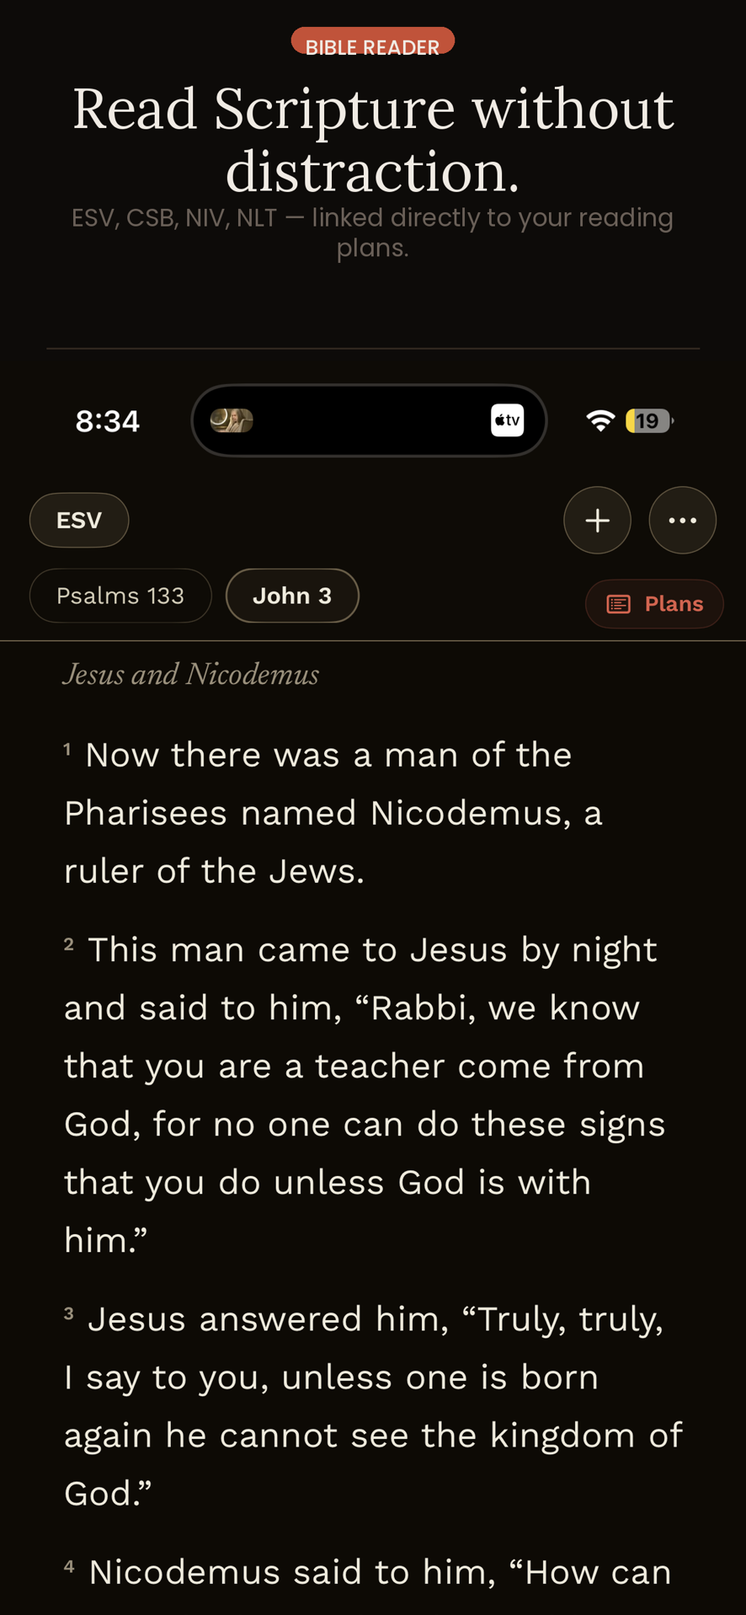
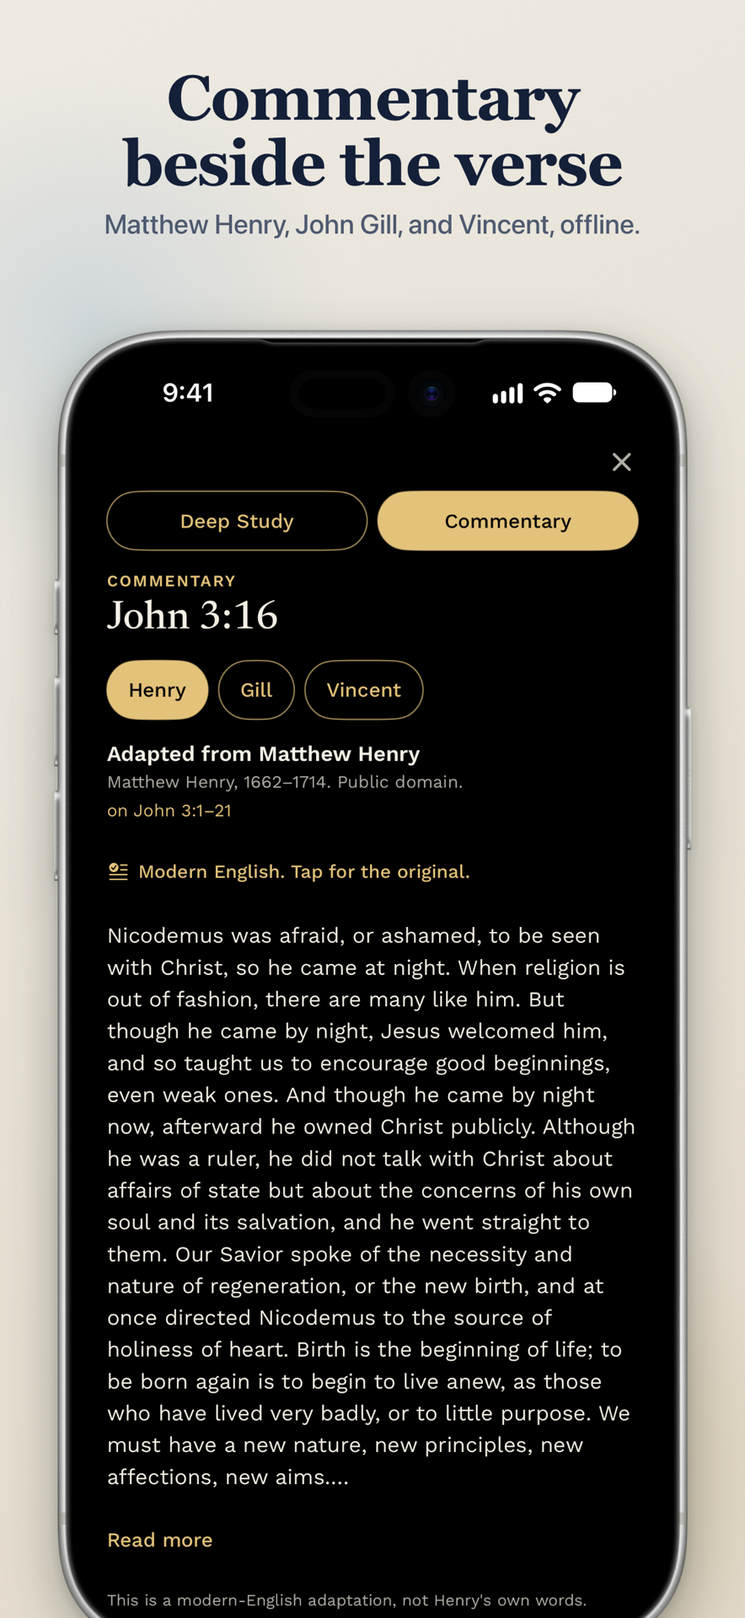
Pilgrim is Bible-only; prayer lists point to Pilgrim: Prayer List
- Pilgrim page/home/links/support: Bible-only copy, current App Store
  screenshots (no prayer screens), link to Prayer List
- Prayer journal articles now promote and link Pilgrim: Prayer List
- Prayer List copy matches its listing (no sharing claim)
- Shepherd screenshot: "calm" greeting replaced

diff --git a/apps/pilgrim.html b/apps/pilgrim.html
@@ -4,9 +4,9 @@
 <meta charset="UTF-8">
 <meta name="viewport" content="width=device-width, initial-scale=1.0">
 <title>Pilgrim — Everlight Digital</title>
-<meta name="description" content="Pilgrim — Bible & prayer, without the guilt mechanics. Made by Everlight Digital.">
+<meta name="description" content="Pilgrim Bible — a free Bible for daily reading, without the guilt mechanics. 15 translations, commentary, and reading plans. Made by Everlight Digital.">
 <meta property="og:title" content="Pilgrim — Everlight Digital">
-<meta property="og:description" content="Bible & prayer, without the guilt mechanics">
+<meta property="og:description" content="A free Bible for daily reading, without the guilt mechanics">
 <meta property="og:type" content="website">
 <link rel="icon" type="image/svg+xml" href="/favicon.svg">
 <meta name="theme-color" content="#0E0B14">
@@ -22,9 +22,9 @@
 <meta property="og:image:alt" content="Everlight Digital — Digital tools for what matters most.">
 <meta name="twitter:card" content="summary_large_image">
 <meta name="twitter:title" content="Pilgrim">
-<meta name="twitter:description" content="Pilgrim — Bible &amp; prayer, without the guilt mechanics. Made by Everlight Digital.">
+<meta name="twitter:description" content="Pilgrim Bible — a free Bible for daily reading, without the guilt mechanics. 15 translations, commentary, and reading plans. Made by Everlight Digital.">
 <meta name="twitter:image" content="https://everlight-digital.com/assets/og/default.png">
-<script type="application/ld+json">{"@context":"https://schema.org","@graph":[{"@type":"SoftwareApplication","name":"Pilgrim","description":"Pilgrim — Bible & prayer, without the guilt mechanics. Made by Everlight Digital.","url":"https://apps.apple.com/us/app/pilgrim-bible-prayer/id6769929244","operatingSystem":"iOS","applicationCategory":"LifestyleApplication","publisher":{"@id":"https://everlight-digital.com/#org"}}]}</script>
+<script type="application/ld+json">{"@context":"https://schema.org","@graph":[{"@type":"SoftwareApplication","name":"Pilgrim","description":"Pilgrim Bible — a free Bible for daily reading, without the guilt mechanics. 15 translations, commentary, and reading plans. Made by Everlight Digital.","url":"https://apps.apple.com/us/app/pilgrim-bible-prayer/id6769929244","operatingSystem":"iOS","applicationCategory":"LifestyleApplication","publisher":{"@id":"https://everlight-digital.com/#org"}}]}</script>
 <script src="/brand/analytics.js" defer></script>
 <!-- seo:end -->
 <link rel="stylesheet" href="/brand/site.css">
@@ -36,10 +36,10 @@
 </div></header>
 
 <section class="story-hero"><div class="wrap">
-  <img class="icon" src="/assets/apps/pilgrim/icon.png" alt="Pilgrim Christian Daily Prayer App Icon">
+  <img class="icon" src="/assets/apps/pilgrim/icon.png" alt="Pilgrim Bible app icon">
   <div>
-    <h1>Pilgrim</h1>
-    <div class="tag">Bible & prayer, without the guilt mechanics</div>
+    <h1>Pilgrim Bible</h1>
+    <div class="tag">A free Bible for daily reading, without the guilt mechanics</div>
     <div class="platform">iOS</div>
     <a class="btn btn--onlight" href="https://apps.apple.com/us/app/pilgrim-bible-prayer/id6769929244">Get it on the App Store</a>
   </div>
@@ -47,7 +47,7 @@
 
 <section class="section"><div class="wrap" style="max-width:760px">
   <p class="eyebrow">The problem</p>
-  <p style="font-size:19px;color:var(--el-stone)">Most Bible apps turn reading into a streak to protect — miss a day and the app makes you feel it. Pilgrim starts from a different premise: reading Scripture and praying are things you come back to because they matter, not because a counter is watching. It's a quiet place to read a passage, mark it up, and pray, with nothing tracking how "consistent" you've been.</p>
+  <p style="font-size:19px;color:var(--el-stone)">Most Bible apps turn reading into a streak to protect — miss a day and the app makes you feel it. Pilgrim starts from a different premise: reading Scripture is something you come back to because it matters, not because a counter is watching. It's a quiet place to read a passage and mark it up, with nothing tracking how "consistent" you've been.</p>
 </div></section>
 
 <section class="section section--tint"><div class="wrap">
@@ -55,28 +55,30 @@
   <div class="feature-list">
     <div class="item"><h3>Read without the scoreboard</h3><p>Full Bible text with clean typography and no streak counter, no red badge nagging you back in.</p></div>
     <div class="item"><h3>Mark verses that matter</h3><p>Highlight, note, and bookmark passages as you read, so the verses that hit stay easy to find later.</p></div>
-    <div class="item"><h3>A real prayer list</h3><p>Keep a running list of who and what you're praying for, and check in whenever you actually want to — not on a schedule the app sets.</p></div>
+    <div class="item"><h3>Commentary beside the verse</h3><p>Matthew Henry, John Gill, and Vincent's Word Studies on key books, right next to the text and fully offline.</p></div>
+    <div class="item"><h3>Plans for every season</h3><p>Bible in a Year, Psalms in 30 days, the Gospels, and more. Missed days stay open, and you can invite a friend to read a plan with you.</p></div>
   </div>
 </div></section>
 
 <section class="section"><div class="wrap">
   <p class="eyebrow">A look inside</p>
   <div class="shot-strip">
-    <img src="/assets/apps/pilgrim/shot-1.png" alt="Pilgrim home — your spiritual life in one place" loading="lazy">
-    <img src="/assets/apps/pilgrim/shot-2.png" alt="Pilgrim daily home screen" loading="lazy">
-    <img src="/assets/apps/pilgrim/shot-3.png" alt="Pilgrim Bible reader" loading="lazy">
-    <img src="/assets/apps/pilgrim/shot-4.png" alt="Pilgrim prayer lists" loading="lazy">
+    <img src="/assets/apps/pilgrim/shot-1.png" alt="Pilgrim Bible reader — 15 translations, no ads" loading="lazy">
+    <img src="/assets/apps/pilgrim/shot-2.png" alt="Scroll mode — read one verse at a time" loading="lazy">
+    <img src="/assets/apps/pilgrim/shot-3.png" alt="Commentary beside the verse" loading="lazy">
+    <img src="/assets/apps/pilgrim/shot-4.png" alt="Pilgrim reading plans library" loading="lazy">
   </div>
 </div></section>
 
 <section class="section"><div class="wrap" style="max-width:680px;text-align:center">
   <p class="eyebrow">Who it's for</p>
-  <p style="font-size:19px;color:var(--el-stone)">Anyone who wants a daily Bible and prayer habit that doesn't run on guilt — from someone starting out to a longtime reader tired of gamified faith apps.</p>
+  <p style="font-size:19px;color:var(--el-stone)">Anyone who wants a daily Bible habit that doesn't run on guilt — from someone starting out to a longtime reader tired of gamified faith apps.</p>
   <div class="made-by">
     <p style="margin:0 0 12px">Made by <a href="/">Everlight Digital</a> — intentional tools for what matters most.</p>
     <a class="btn btn--primary" href="https://apps.apple.com/us/app/pilgrim-bible-prayer/id6769929244">Get it on the App Store</a>
   </div>
   <p style="margin-top:24px"><a href="/journal/pilgrim-sticking-with-a-reading-plan">Read: how to actually stick with a Bible reading plan →</a></p>
+  <p><a href="/apps/prayerlist">Looking for a prayer list? See Pilgrim: Prayer List →</a></p>
   <p><a href="/pilgrim/privacy">Pilgrim privacy policy</a></p>
 </div></section>
 

diff --git a/index.html b/index.html
@@ -57,18 +57,18 @@
   </nav>
 </section>
 <section class="app-sec" id="pilgrim" aria-labelledby="pilgrim-h">
-  <figure class="phone"><div class="phone__screen"><img src="/assets/apps/pilgrim/shot-1.png" alt="Pilgrim home — your spiritual life in one place" style="object-position:center top"><img src="/assets/apps/pilgrim/shot-2.png" alt="Pilgrim daily home screen" hidden style="object-position:center top"><img src="/assets/apps/pilgrim/shot-3.png" alt="Pilgrim Bible reader" hidden style="object-position:center top"><img src="/assets/apps/pilgrim/shot-4.png" alt="Pilgrim prayer lists" hidden style="object-position:center top"></div><button class="play" type="button" aria-pressed="false" aria-label="Play a tour of Pilgrim screenshots"><svg viewBox="0 0 24 24" aria-hidden="true"><path class="i-play" d="M8 5v14l11-7z"/><path class="i-pause" d="M7 5h4v14H7zM13 5h4v14h-4z"/></svg></button></figure>
-  <p class="kicker">Pilgrim · Bible &amp; Prayer · iOS</p>
+  <figure class="phone"><div class="phone__screen"><img src="/assets/apps/pilgrim/shot-1.png" alt="Pilgrim Bible reader — 15 translations, no ads" style="object-position:center top"><img src="/assets/apps/pilgrim/shot-2.png" alt="Scroll mode — read one verse at a time" hidden style="object-position:center top"><img src="/assets/apps/pilgrim/shot-3.png" alt="Commentary beside the verse" hidden style="object-position:center top"><img src="/assets/apps/pilgrim/shot-4.png" alt="Pilgrim reading plans library" hidden style="object-position:center top"></div><button class="play" type="button" aria-pressed="false" aria-label="Play a tour of Pilgrim screenshots"><svg viewBox="0 0 24 24" aria-hidden="true"><path class="i-play" d="M8 5v14l11-7z"/><path class="i-pause" d="M7 5h4v14H7zM13 5h4v14h-4z"/></svg></button></figure>
+  <p class="kicker">Pilgrim Bible · iOS</p>
   <h2 id="pilgrim-h">Scripture,<br>without the scoreboard.</h2>
-  <p class="lede">Most Bible apps turn reading into a streak to protect. Pilgrim is <mark>a quiet place to read, mark it up, and pray</mark> — full Bible text with clean typography, highlights, notes, and a real prayer list, with nothing tracking how “consistent” you’ve been.</p>
-  <p class="actions"><a class="store" href="https://apps.apple.com/us/app/pilgrim-bible-prayer/id6769929244">Download Pilgrim on the App Store</a><a class="more" href="/apps/pilgrim">Learn more<span class="sr-only"> about Pilgrim</span> →</a></p>
+  <p class="lede">Most Bible apps turn reading into a streak to protect. Pilgrim is <mark>a quiet place to read and mark it up</mark> — 15 translations, commentary beside the verse, and reading plans, free with no ads, and nothing tracking how “consistent” you’ve been.</p>
+  <p class="actions"><a class="store" href="https://apps.apple.com/us/app/pilgrim-bible-prayer/id6769929244">Download Pilgrim Bible on the App Store</a><a class="more" href="/apps/pilgrim">Learn more<span class="sr-only"> about Pilgrim</span> →</a></p>
 </section>
 <section class="app-sec" id="prayerlist" aria-labelledby="prayerlist-h">
   <figure class="phone"><div class="phone__screen"><div class="type-screen type-screen--prayer" role="img" aria-label="Prayer List"><span class="ts-eyebrow">Prayer List</span><span class="ts-title">Pray.<br>Then mark it<br><em>answered.</em></span></div></div></figure>
   <p class="kicker">Pilgrim: Prayer List · iPhone &amp; iPad</p>
   <h2 id="prayerlist-h">Pray for people,<br>then mark it answered.</h2>
-  <p class="lede">Keep a list of people and situations to pray for, and <mark>mark them answered</mark>. Free includes 10 active prayers — answered ones don’t count. Plus unlocks a bigger list, named lists, people, widgets, and sharing with one person.</p>
-  <p class="actions"><a class="store" href="https://apps.apple.com/us/app/id6813986018">Download Prayer List on the App Store</a></p>
+  <p class="lede">Keep a list of people and situations to pray for, and <mark>mark them answered</mark>. Free includes 10 active prayers — answered ones don’t count. Plus unlocks a bigger list, named lists, People, prayer stats, and a Home Screen widget.</p>
+  <p class="actions"><a class="store" href="https://apps.apple.com/us/app/pilgrim-prayer-list/id6813986018">Download Prayer List on the App Store</a></p>
 </section>
 <section class="app-sec" id="chrona" aria-labelledby="chrona-h">
   <figure class="phone"><div class="phone__screen"><img src="/assets/apps/chrona/shot-1.png" alt="Chrona month view with events and tasks" style="object-position:center top" loading="lazy"><img src="/assets/apps/chrona/shot-2.png" alt="Chrona task list with projects and tags" hidden style="object-position:center top" loading="lazy"><img src="/assets/apps/chrona/shot-3.png" alt="Chrona day timeline with time-blocked tasks" hidden style="object-position:center top" loading="lazy"></div><button class="play" type="button" aria-pressed="false" aria-label="Play a tour of Chrona screenshots"><svg viewBox="0 0 24 24" aria-hidden="true"><path class="i-play" d="M8 5v14l11-7z"/><path class="i-pause" d="M7 5h4v14H7zM13 5h4v14h-4z"/></svg></button></figure>

diff --git a/journal/pilgrim-building-a-prayer-list.html b/journal/pilgrim-building-a-prayer-list.html
@@ -56,17 +56,17 @@
 
   <p>And build in a way to revisit answered prayers. This is the part people skip most often, and it's the part that changes how the whole practice feels over time. Moving something from "waiting" to "answered" is a small act, but it's the difference between a list that only ever grows heavier and one that reflects an actual relationship — asking, then noticing, then being grateful.</p>
 
-  <h2>How Pilgrim's prayer list works</h2>
+  <h2>How Pilgrim: Prayer List works</h2>
 
-  <p>Pilgrim treats prayer lists as a running list, not a schedule. There's no daily quota, no notification telling you that you're behind on entry twelve. You add what you're carrying, check in on it whenever you actually think to pray, and move things to answered when they're answered. Nothing about the list is trying to gamify how often you open it.</p>
+  <p>Pilgrim: Prayer List, our separate prayer app, treats prayer lists as a running list, not a schedule. There's no daily quota, no notification telling you that you're behind on entry twelve. You add what you're carrying, check in on it whenever you actually think to pray, and move things to answered when they're answered. Nothing about the list is trying to gamify how often you open it.</p>
 
-  <p>Entries stay simple — a name or situation, a category if you want one, a note if something needs more context than a title can hold. When a prayer is answered, marking it doesn't delete it; it moves into a record you can look back on, which turns out to be one of the more quietly meaningful things about keeping a list at all. Looking back at six months of answered prayers tells you something a fresh empty list never can.</p>
+  <p>Entries stay simple — who it's for, what they asked, a note if something needs more context than a title can hold. When a prayer is answered, marking it doesn't delete it; it moves into a record you can look back on, which turns out to be one of the more quietly meaningful things about keeping a list at all. Looking back at six months of answered prayers tells you something a fresh empty list never can.</p>
 
-  <p>The list is built around the actual rhythm of praying for people, which is uneven by nature — some days you think of someone once, other days it's constant, and some weeks you don't open the app at all. Pilgrim doesn't punish the gaps. It just keeps the list exactly as you left it, ready whenever you come back to it.</p>
+  <p>The list is built around the actual rhythm of praying for people, which is uneven by nature — some days you think of someone once, other days it's constant, and some weeks you don't open the app at all. Prayer List doesn't punish the gaps. It just keeps the list exactly as you left it, ready whenever you come back to it.</p>
 
   <div class="made-by" style="text-align:left;margin-top:48px">
     <p style="margin:0 0 12px">Build a prayer list that stays with you, not one you dread opening.</p>
-    <a class="btn btn--primary" href="https://apps.apple.com/us/app/pilgrim-bible-prayer/id6769929244">Get Pilgrim</a>
+    <a class="btn btn--primary" href="https://apps.apple.com/us/app/pilgrim-prayer-list/id6813986018">Get Pilgrim: Prayer List</a>
   </div>
 </article>
 

diff --git a/pilgrim/index.html b/pilgrim/index.html
@@ -3,7 +3,7 @@
 <head>
 <meta charset="UTF-8">
 <meta name="viewport" content="width=device-width, initial-scale=1.0">
-<title>Pilgrim — Bible &amp; Prayer</title>
+<title>Pilgrim Bible</title>
 <link rel="icon" type="image/svg+xml" href="/favicon.svg">
 <link rel="icon" type="image/png" sizes="32x32" href="/favicon-32.png">
 <link rel="apple-touch-icon" sizes="180x180" href="/apple-touch-icon.png">
@@ -12,7 +12,7 @@
 <link rel="preconnect" href="https://fonts.gstatic.com" crossorigin>
 <!-- seo:start (generated by tools/seo-inject.mjs — do not hand-edit) -->
 <link rel="canonical" href="https://everlight-digital.com/pilgrim/">
-<meta property="og:title" content="Pilgrim — Bible &amp;amp; Prayer">
+<meta property="og:title" content="Pilgrim Bible">
 <meta property="og:description" content="Digital tools for what matters most.">
 <meta property="og:type" content="website">
 <meta property="og:url" content="https://everlight-digital.com/pilgrim/">
@@ -22,7 +22,7 @@
 <meta property="og:image:height" content="630">
 <meta property="og:image:alt" content="Everlight Digital — Digital tools for what matters most.">
 <meta name="twitter:card" content="summary_large_image">
-<meta name="twitter:title" content="Pilgrim — Bible &amp;amp; Prayer">
+<meta name="twitter:title" content="Pilgrim Bible">
 <meta name="twitter:description" content="Digital tools for what matters most.">
 <meta name="twitter:image" content="https://everlight-digital.com/assets/og/default.png">
 <script src="/brand/analytics.js" defer></script>
@@ -43,7 +43,7 @@
 
 <main>
 
-<h1>Pilgrim: Bible &amp; Prayer</h1>
+<h1>Pilgrim Bible</h1>
 <p class="meta">A Bible-first iOS app for Reformed-leaning Protestants. Free. Non-commercial. Built around Scripture and the historic confessions.</p>
 
 <div class="card accent">
@@ -51,7 +51,7 @@
 </div>
 
 <h2>What Pilgrim Is</h2>
-<p>Pilgrim is a focused iOS app that combines a Bible reader, catechism-paired reading plans, a memory tool for Scripture and confessional Q&amp;A, sermon notes, an answered-prayer log, and small private "Circles" for accountability among trusted friends.</p>
+<p>Pilgrim Bible is a free iOS Bible for daily reading: 15 translations, scroll mode for one verse at a time, commentary beside the verse, reading plans, and a way to read a plan with someone. Prayer lists now live in a separate app, <a href="/apps/prayerlist">Pilgrim: Prayer List</a>.</p>
 <p>It is designed for adult Christians — particularly those in the Reformed tradition — who want depth without the cost of professional study tools and without the cluttered social feed of mainstream Bible apps.</p>
 
 <h2>What Pilgrim Is Not</h2>

diff --git a/journal/christian-daily-prayer-app-finding-rhythm.html b/journal/christian-daily-prayer-app-finding-rhythm.html
@@ -54,15 +54,15 @@
 
   <p>At Everlight Digital, we believe that software for faith and family should be intentional. A Christian daily prayer app should be a quiet companion, not a noisy taskmaster. It should provide structure without pressure. It should help you remember who to pray for, organize your thoughts, and reflect on scripture, all while staying out of the way.</p>
 
-  <h2>Finding Your Rhythm with Pilgrim</h2>
+  <h2>Finding Your Rhythm with Pilgrim: Prayer List</h2>
 
-  <p>This philosophy is why we built Pilgrim. Pilgrim is a Bible and prayer app designed without guilt mechanics. It offers a quiet, focused environment to track your prayer requests and scripture reading. It doesn't nag you with notifications or punish you for taking a break.</p>
+  <p>This philosophy is why we built Pilgrim: Prayer List. It's a prayer app designed without guilt mechanics: a quiet, focused place to keep the people and needs you've promised to pray for, pray through them one at a time, and mark them answered. It doesn't nag you or punish you for taking a break.</p>
 
-  <p>Instead, Pilgrim focuses on helping you build a sustainable rhythm. Whether you pray in the morning, during your commute, or before bed, Pilgrim is there to help you pick up right where you left off. It's a Christian daily prayer app designed to foster a deeper, more intentional prayer life, free from the noise of modern app design.</p>
+  <p>Instead, Prayer List focuses on helping you build a sustainable rhythm. Whether you pray in the morning, during your commute, or before bed, it is there to help you pick up right where you left off. It's a Christian daily prayer app designed to foster a deeper, more intentional prayer life, free from the noise of modern app design.</p>
 
   <div class="made-by" style="text-align:left;margin-top:48px">
-    <p style="margin:0 0 12px">Ready to find a healthier rhythm for your prayer life? Try Pilgrim today.</p>
-    <a class="btn btn--primary" href="/apps/pilgrim">Learn more about Pilgrim</a>
+    <p style="margin:0 0 12px">Ready to find a healthier rhythm for your prayer life? Try Pilgrim: Prayer List today.</p>
+    <a class="btn btn--primary" href="/apps/prayerlist">Learn more about Pilgrim: Prayer List</a>
   </div>
 </article>
 

diff --git a/apps/prayerlist.html b/apps/prayerlist.html
@@ -47,7 +47,7 @@
 
 <section class="section"><div class="wrap" style="max-width:760px">
   <p class="eyebrow">The problem</p>
-  <p style="font-size:19px;color:var(--el-stone)">Prayer requests arrive in texts, hallway conversations, and Sunday mornings — then slip away before you pray or check back in. Prayer List is a quiet place to capture what you heard, pray through it, and remember to follow up with the person. It is not a Bible reader and not the Pilgrim Bible &amp; Prayer app.</p>
+  <p style="font-size:19px;color:var(--el-stone)">Prayer requests arrive in texts, hallway conversations, and Sunday mornings — then slip away before you pray or check back in. Prayer List is a quiet place to capture what you heard, pray through it, and remember to follow up with the person. It is not a Bible reader and it is a separate app from Pilgrim Bible.</p>
 </div></section>
 
 <section class="section section--tint"><div class="wrap">
@@ -69,7 +69,7 @@
     <a class="btn btn--primary" href="https://apps.apple.com/app/id6813986018">Get it on the App Store</a>
   </div>
   <p style="margin-top:24px"><a href="/prayerlist/support">Pilgrim: Prayer List support</a> &middot; <a href="/prayerlist/privacy.html">Privacy policy</a></p>
-  <p style="margin-top:12px"><a href="/apps/pilgrim">Looking for the Bible app? See Pilgrim (Bible &amp; Prayer) →</a></p>
+  <p style="margin-top:12px"><a href="/apps/pilgrim">Looking for the Bible app? See Pilgrim Bible →</a></p>
 </div></section>
 
 <footer class="site-footer">

diff --git a/links.html b/links.html
@@ -59,7 +59,7 @@
     <li><a class="lib-link" data-track href="/apps/chrona.html"><img src="/assets/apps/chrona/icon.png" alt=""><div><strong>Chrona</strong><span>Make the most of your time</span></div></a></li>
     <li><a class="lib-link" data-track href="https://apps.apple.com/us/app/olive-household-rhythms/id6762567367"><img src="/assets/apps/olive/icon.png" alt=""><div><strong>Olive</strong><span>A steady home for your family's week</span></div></a></li>
     <li><a class="lib-link" data-track href="https://apps.apple.com/us/app/regen-athlete/id6764216927"><img src="/assets/apps/regen/icon.png" alt=""><div><strong>Regen</strong><span>Recovery insights for athletes</span></div></a></li>
-    <li><a class="lib-link" data-track href="https://apps.apple.com/us/app/pilgrim-bible-prayer/id6769929244"><img src="/assets/apps/pilgrim/icon.png" alt=""><div><strong>Pilgrim</strong><span>Bible &amp; prayer, without the guilt</span></div></a></li>
+    <li><a class="lib-link" data-track href="https://apps.apple.com/us/app/pilgrim-bible-prayer/id6769929244"><img src="/assets/apps/pilgrim/icon.png" alt=""><div><strong>Pilgrim Bible</strong><span>A free Bible, without the guilt</span></div></a></li>
     <li><a class="lib-link" data-track href="https://www.pastorshepherd.com"><img src="/assets/apps/shepherd/icon.png" alt=""><div><strong>Shepherd</strong><span>Pastoral care software for churches</span></div></a></li>
   </ul>
   <section class="lib-signup" id="signup">

diff --git a/journal/pilgrim-praying-for-others.html b/journal/pilgrim-praying-for-others.html
@@ -74,11 +74,11 @@
 
   <p>Moving a request from &ldquo;Active&rdquo; to &ldquo;Answered&rdquo; is one of the most faith-strengthening habits you can build. Over time, that log becomes an altar of remembrance: tangible proof that prayer is not shouting into an empty void, but speaking to a Heavenly Father who hears and acts.</p>
 
-  <p>That quiet, intentional rhythm is why we built the prayer system inside <strong>Pilgrim</strong>. It isn&rsquo;t designed to be a complex database or a streak-driven habit tracker; it is a quiet, distraction-free space to keep the names of the people you love before God, so no one you promised to pray for is forgotten.</p>
+  <p>That quiet, intentional rhythm is why we built <strong>Pilgrim: Prayer List</strong>. It isn&rsquo;t designed to be a complex database or a streak-driven habit tracker; it is a quiet, distraction-free space to keep the names of the people you love before God, so no one you promised to pray for is forgotten.</p>
 
   <div class="made-by" style="text-align:left;margin-top:48px">
     <p style="margin:0 0 12px">Build an unhurried, faithful prayer rhythm.</p>
-    <a class="btn btn--primary" href="https://apps.apple.com/us/app/pilgrim-bible-prayer/id6769929244">Get Pilgrim on iOS</a>
+    <a class="btn btn--primary" href="https://apps.apple.com/us/app/pilgrim-prayer-list/id6813986018">Get Pilgrim: Prayer List</a>
   </div>
 </article>
 

diff --git a/journal/software-you-can-finish.html b/journal/software-you-can-finish.html
@@ -59,7 +59,7 @@
   <p>Concretely, that changes how every app is built:</p>
 
   <ul>
-    <li><strong>Pilgrim:</strong> You open the app to read a passage of scripture or pray for a friend. There is no explore feed, no trending discussions, and no badge shaming you for how many days you missed. When you finish reading, you close the app with a quiet spirit instead of a dopamine rush.</li>
+    <li><strong>Pilgrim:</strong> You open the app to read a passage of Scripture. There is no explore feed, no trending discussions, and no badge shaming you for how many days you missed. When you finish reading, you close the app with a quiet spirit instead of a dopamine rush.</li>
     <li><strong>Chrona:</strong> You type your event in plain English. It schedules it instantly. There are no social sharing prompts or productivity scorecards. The event is set; your day is planned; you get back to your morning.</li>
     <li><strong>Regen:</strong> You glance at your morning recovery and readiness numbers. You see your baseline trend. You know whether today is a day to push hard or a day to rest. You don&rsquo;t need to log back in three times to check a leader board.</li>
     <li><strong>Olive:</strong> The family&rsquo;s meals, schedule, and shared tasks live on one clean page. You check what&rsquo;s for dinner, glance at the afternoon pickups, and close the phone.</li>

diff --git a/support.html b/support.html
@@ -53,7 +53,7 @@
   <h2>How to Get Help</h2>
   <p>For any of our apps, email <a href="mailto:brendan@everlight-digital.com">brendan@everlight-digital.com</a> with:</p>
   <ul>
-    <li>Which app you're using (Olive, Halcyon, Liftpad, Margin, Persue Bible, Persue Prayer, Pilgrim, Pilgrim: Prayer List, Regen, Scorekeep, or WordFind)</li>
+    <li>Which app you're using (Olive, Halcyon, Liftpad, Margin, Persue Bible, Persue Prayer, Pilgrim Bible, Pilgrim: Prayer List, Regen, Scorekeep, or WordFind)</li>
     <li>App version (visible in <em>Settings &rarr; About</em> in most apps)</li>
     <li>iOS / iPadOS / watchOS version</li>
     <li>What happened and what you expected to happen</li>
@@ -69,7 +69,7 @@
     <li><a href="/margin/support">Margin — Podcast Player</a></li>
     <li><a href="/persue-bible/support">Persue Bible</a></li>
     <li><a href="/persue-prayer/support">Persue Prayer</a></li>
-    <li><a href="/pilgrim/support">Pilgrim — Bible &amp; Prayer</a></li>
+    <li><a href="/pilgrim/support">Pilgrim Bible</a></li>
     <li><a href="/prayerlist/support">Pilgrim: Prayer List</a></li>
     <li><a href="/regen/support">Regen — Recovery Dashboard</a></li>
     <li><a href="/scorekeep/support">Scorekeep — Game Score Keeper</a></li>

diff --git a/journal/index.html b/journal/index.html
@@ -68,7 +68,7 @@
     <li class="journal-item"><span class="date">July 2026</span><br><a href="/journal/why-honest-software">Why we build quiet, honest software</a><p class="dek">The philosophy behind everything Everlight makes.</p></li>
     <li class="journal-item"><span class="date">July 2026</span><br><a href="/journal/building-shepherd">Building Shepherd: pastoral care software churches actually use</a><p class="dek">What it takes to make software pastors trust.</p></li>
     <li class="journal-item"><span class="date">July 2026</span><br><a href="/journal/six-apps-in-a-year">What we learned shipping six apps in a year</a><p class="dek">Notes from a one-person studio.</p></li>
-    <li class="journal-item"><span class="date">July 2026</span><br><a href="/journal/pilgrim-no-guilt">Pilgrim: a Bible app without the guilt mechanics</a><p class="dek">Why streaks and shame have no place in a prayer app.</p></li>
+    <li class="journal-item"><span class="date">July 2026</span><br><a href="/journal/pilgrim-no-guilt">Pilgrim: a Bible app without the guilt mechanics</a><p class="dek">Why streaks and shame have no place in a Bible app.</p></li>
   </ul>
 </div></section>
 

diff --git a/prayerlist/support.html b/prayerlist/support.html
@@ -20,7 +20,7 @@
 </header>
 <main>
 <h1>Pilgrim: Prayer List Support</h1>
-<p>Keep a list of people and situations to pray for. Mark them answered. Plus unlocks a bigger list, named lists, people, widgets, and sharing with one person.</p>
+<p>Keep a list of people and situations to pray for. Mark them answered. Plus unlocks a bigger list, named lists, People, prayer stats, and a Home Screen widget.</p>
 <p>Free includes 10 active prayers. Answered prayers do not count against that number.</p>
 <p>Email <a href="mailto:brendan@everlight-digital.com">brendan@everlight-digital.com</a>.</p>
 <p><a href="/prayerlist/privacy.html">Privacy Policy</a></p>
